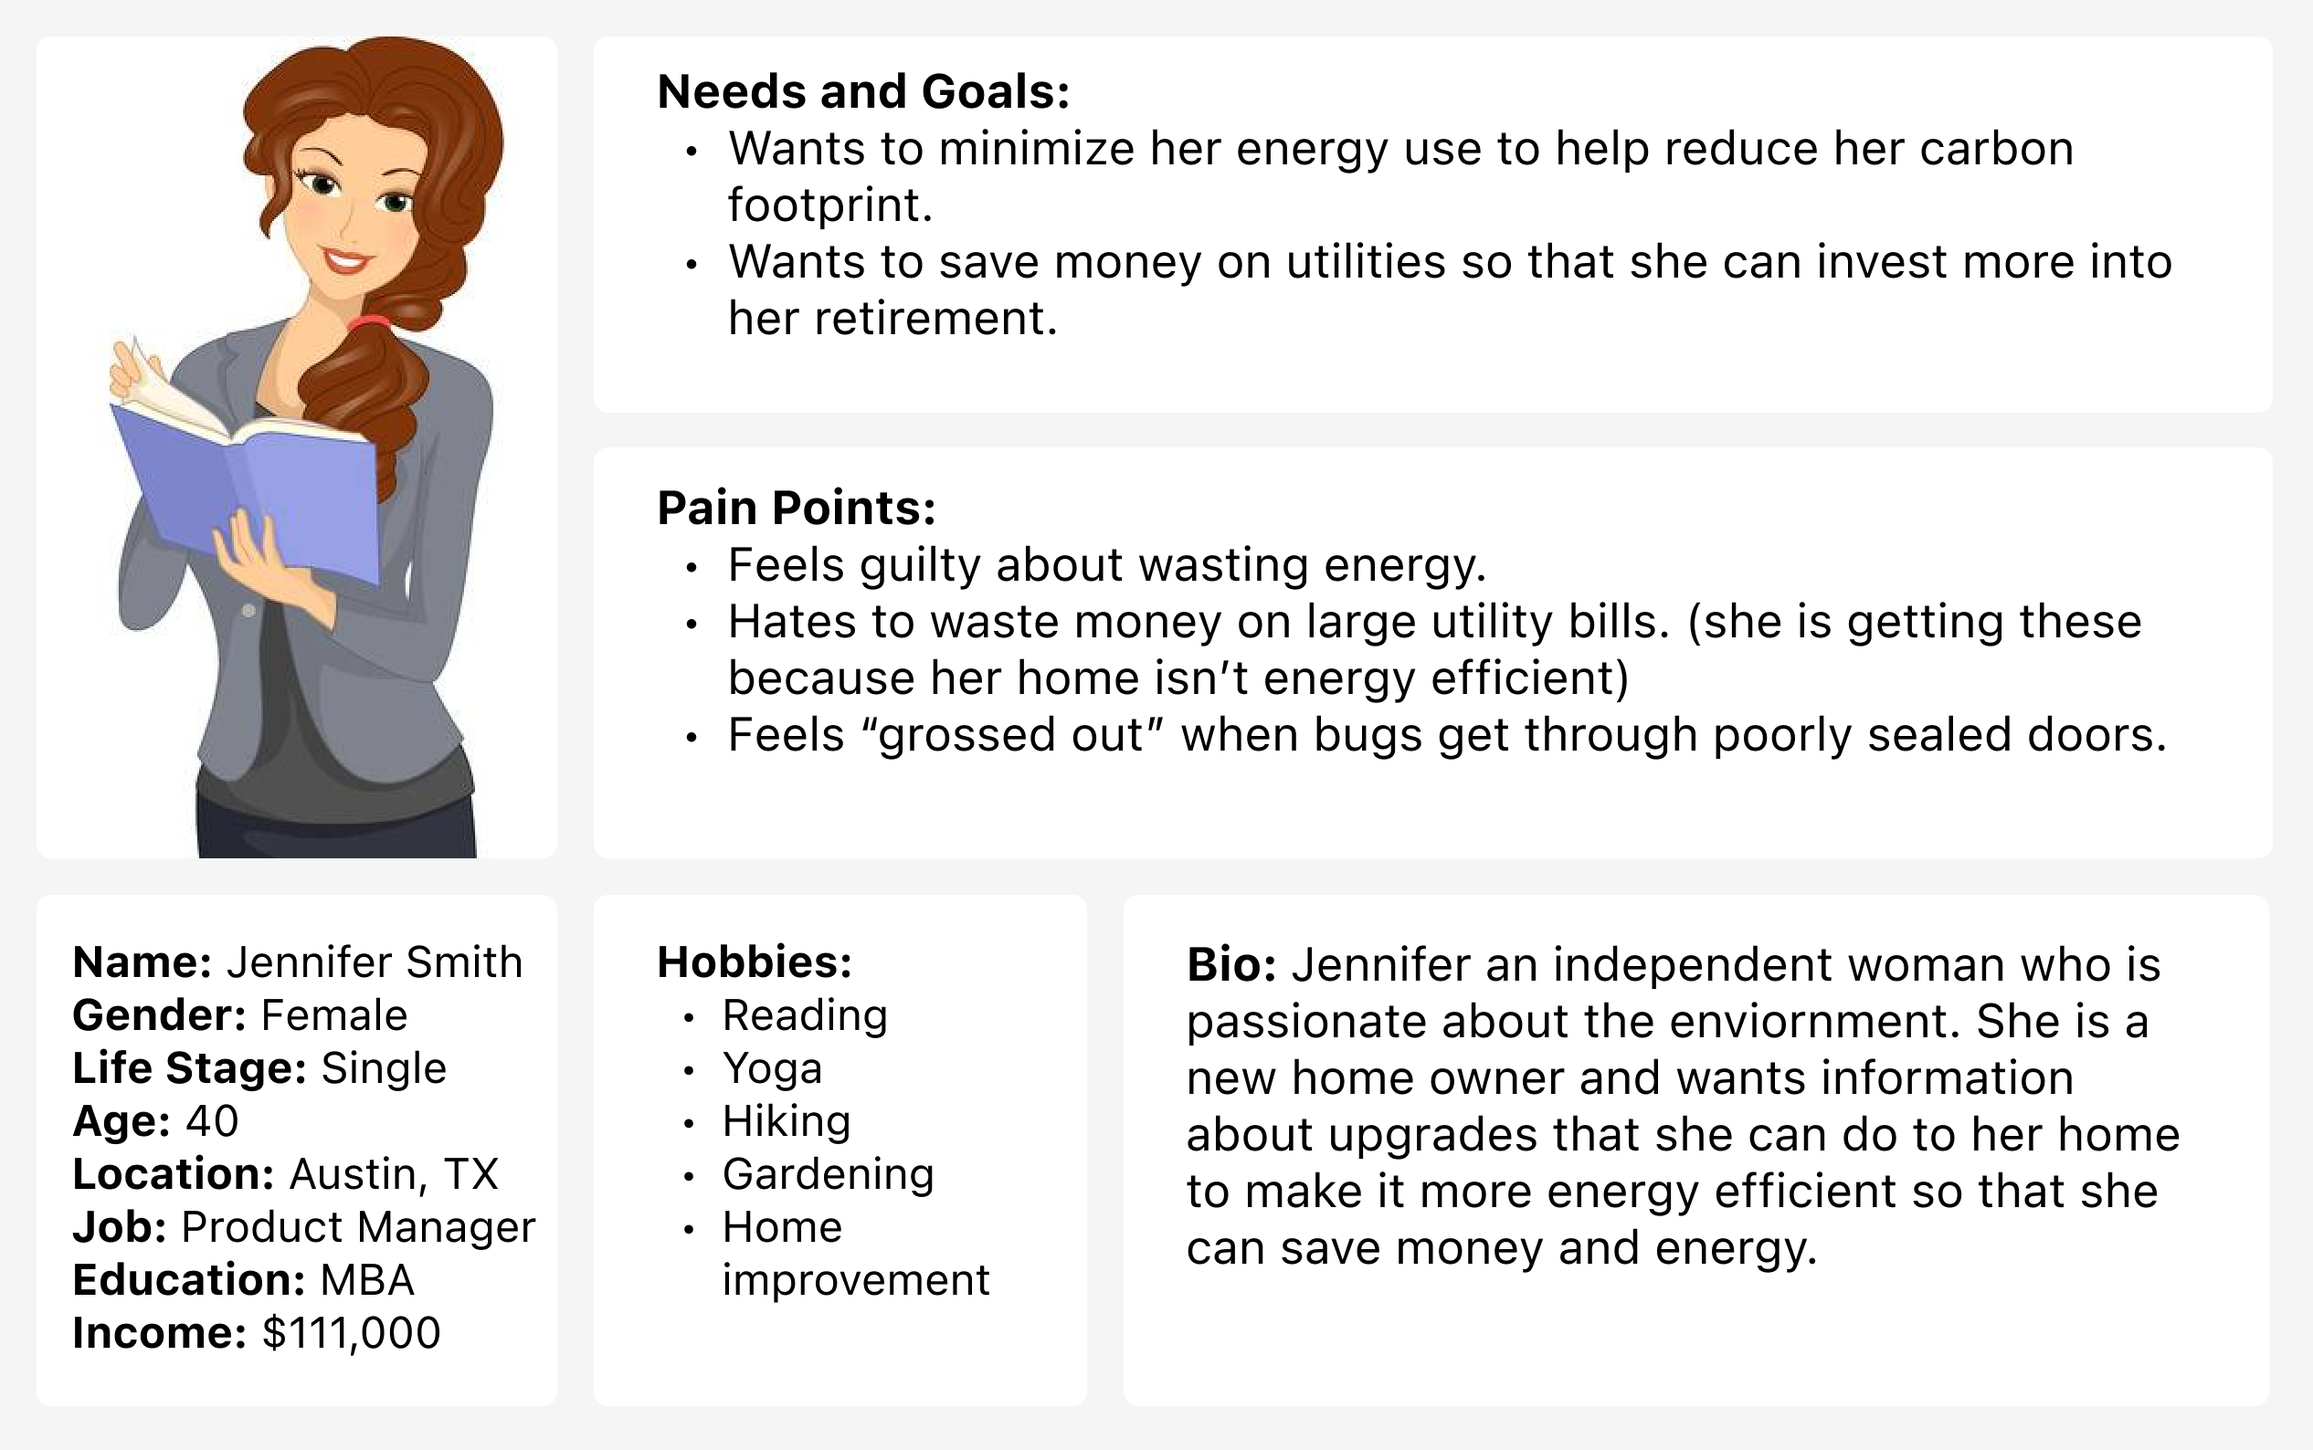
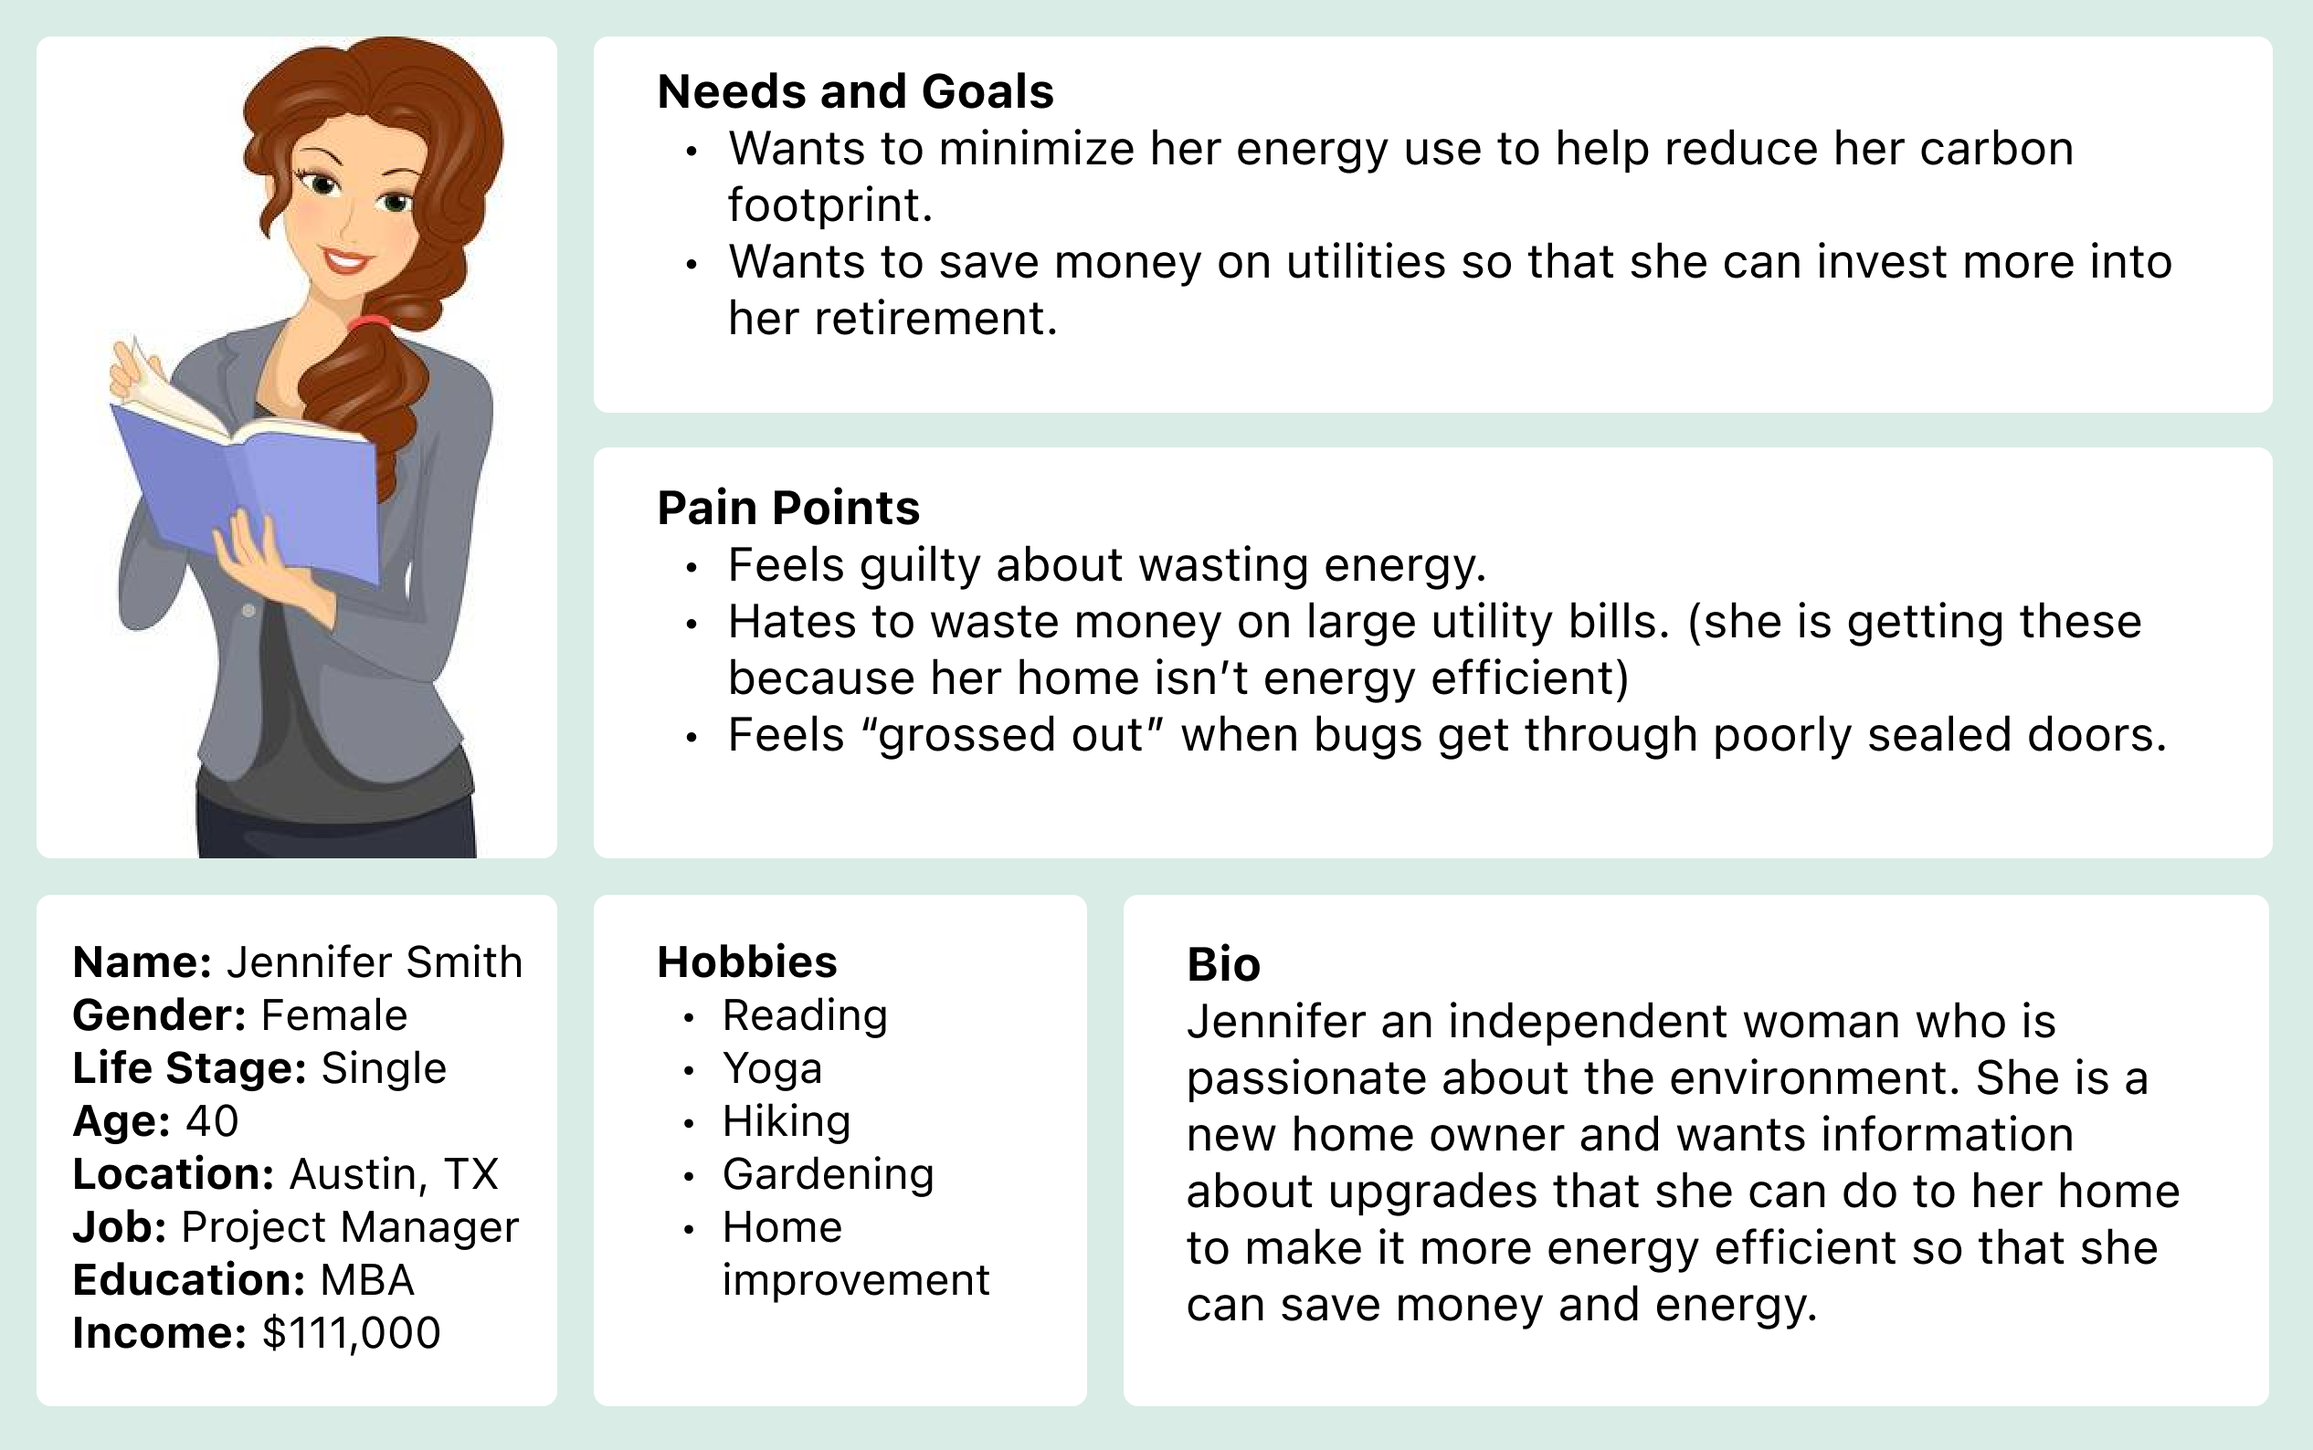
updated energy.gov persona

Changed region(s): [[0.0, 0.0, 1.0, 1.0]]

diff --git a/bonsaioutlet.html b/bonsaioutlet.html
@@ -1,0 +1,192 @@
+<!DOCTYPE html>
+<html>
+   <head>
+     <title>Jason Andrews - Product Designer</title>
+     <link rel="icon" href="images/ja-logo.png" type="image/x-icon" />
+     <link rel="shortcut icon" href="images/ja-logo.png" type="image/x-icon" /> 
+     <meta name="viewport" content="width=device-width, initial-scale=1">
+     <link href="css/index.css" rel="stylesheet" type="text/css">
+     <script src="https://ajax.googleapis.com/ajax/libs/jquery/3.5.1/jquery.min.js"></script>
+     <link rel="preconnect" href="https://fonts.googleapis.com">
+     <link rel="preconnect" href="https://fonts.gstatic.com" crossorigin>
+     <link href="https://fonts.googleapis.com/css2?family=Oooh+Baby&family=Poppins:ital@0;1&display=swap" rel="stylesheet">
+    </head>  
+   <body>
+       <!-- header -->
+    <header>
+      <a href="index.html"><img src="images/ja-logo.png" class="logo"></a>
+         <nav>
+             <ul class="mainNav">
+                <li class="navCollapse"><a href="index.html">Home</a></li>
+                <li class="navCollapse"><a href="aboutme.html">About</a></li>
+                <li class="navCollapse"><a href="documents/Resume_Jason_Andrews.pdf">Resume</a></li>
+                <li id="mobileNav" class="mobileNav">Menu</li>
+                <li class="contactButton"><a href="mailto:jasonwesleyandrews@gmail.com">Contact</a></li>
+             </ul>
+           </nav>
+    </header>
+   
+    <ul class="subNav">
+      <li class="subNavItem"><a href="index.html">Home</a></li>
+      <hr>
+      <li class="subNavItem"><a href="aboutme.html">About</a></li>
+      <hr>
+      <li class="subNavItem"><a href="documents/Resume_Jason_Andrews.pdf">Resume</a></li>      
+    </ul>
+<div id="grayBG" class="grayBG"></div>
+     <!-- case study -->
+<section>
+    <div class="caseStudyBody">
+    
+    <div class="heading">
+      <div class="caseStudyLogos">
+        <img src="bonsaiOutletImages/bonsai_outlet_logo.png" class="caseStudySmallImgNoBorder">
+     </div>
+      <h3>E-commerce UI Redesign</h3>
+      <p>UI Designer</p>
+  </div>
+
+    <div class="imgLimit">
+      <img src="images/Bonsai_outlet_mock1.png" class="caseStudySmallImgNoBorder">
+   </div>
+    <h3>The Problem</h3>
+    <p>Adventurous people with big travel dreams need a way to prioritize and share the items on their bucket list in order to organize goals, connect with like-minded peers, and gain inspiration for future trips.</p>
+    <h3>The Solution</h3>
+    <p>A new mobile application that allows the user to create, search, and share bucket list goals. Then notify their online community when these goals are completed.</p>
+    <h3>The User</h3>
+    <p>Young Millennials with big travel dreams, who wants to share and receive travel inspiration.</p>
+    <h3>The Goal</h3>
+    <p>To create a tool that would help travelers book their next vacation. I conducted research, discovered an opportunity, then built a prototype for usability testing over the course of 4 weeks. This project started with a broad goal and required inductive reasoning to find a problem and solution.</p>
+    <h3>The Process</h3>
+     
+     <h3 id="empathizeBB">Empathize / User Research</h3>
+     <p>I did some initial research and found that the demographic who travels the most were Millenials between the ages of 23 and 38, so I decided to focus on this group. I created a proto-persona based on my assumptions of the potential user. Next I developed a research and interview plan to discover customer needs - This involved 5 customer interviews and a survey on social media. I wanted to see what motivated people to travel, how often they did it, and what their process was like for planning.</p>
+     <div>
+        <img src="bonsaiOutletImages/bonsaioutlet_original1.png" class="caseStudySmallImg">
+     </div>
+     <p> I added all of the user insights collected through interviews to “sticky notes” in Miro. I sorted them based on the naturally occurring themes, creating this affinity diagram.</p>
+     
+     
+     <div>
+        <div class="caseStudyDoubleImgContainer">
+           <div class="caseStudyDoubleImg"> 
+             <img src="images/bucketBookImages/affinityDiagram1.png" class="caseStudySmallImg">
+           </div>
+           <div class="caseStudyDoubleImg"> 
+             <img src="images/bucketBookImages/travel_chart.png" class="caseStudySmallImg">
+           </div>
+        </div>
+      </div>
+      <h3 id="defineBB">Define</h3>
+    <p>While doing my research I learned that this demographic likes to be active and have new experiences that they can share on social media. Several participants mentioned wanting to cross items off of their bucket list. I noticed that most of these people got their travel inspiration from social media, like Instagram and the survey showed that 73% of their travel was for pleasure. With these findings I created a user persona and empathy map.</p>
+  
+    <div>
+        <img src="images/bucketBookImages/User Persona Samantha Muto2.png" class="caseStudySmallImgNoBorder">
+     </div>
+     <div class="blockQuoteContainer">
+       <blockquote class="blockquote">
+        <em>“I use social media to inspire my travel plans”</em> - Vanna
+       </blockquote>
+     </div>
+        <h3 id="ideationBB">Ideation</h3>
+        <p>After learning about the potential user needs, I jotted down some ideas of how an application could help solve them. I used the "I like, I wish, what if" method to brainstorm features, then the "how, now, wow" method to prioritize the features.</p>
+            <div class="caseStudyThreeImgContainer">
+               <div class="ThreeImgContainer">
+                 <img src="images/bucketBookImages/Bucket_List_feature_brainstorm.png" class="caseStudySmallImg">
+               </div>
+
+               <div class="caseStudyStackedImgContainer">
+                 <img src="images/bucketBookImages/feature_brainstorming.png" class="caseStudySmallImg">
+                 <img src="images/bucketBookImages/feature_prioritization.png" class="caseStudySmallImg">
+               </div>
+           
+            </div>
+      <p>My value proposition was a mobile application that allows the user to create a profile where they can add items to their bucket list. Users can share goals and accomplishments with their peers. Next I created a story board and user journey map to illustrate how this might work.</p>   
+      <div>
+        <img src="images/bucketBookImages/BB_storyboard4.png" class="caseStudySmallImgNoBorder">
+      </div>
+
+     <div class="blockQuoteContainer">
+      <blockquote class="blockquote">
+        <em>“I have a bucket list of spots in mind that I’d like to travel to.”</em> - Chris
+      </blockquote>
+     </div>
+
+        <h3 id="prototypingBB">Prototyping</h3>
+        <p>While creating a competitor analysis I found another app called Bucket that is similar, but it didn't allow users to create lists in different categories, so I moved forward with the assumption that this product can add value and differentiate itself by allowing users to create multiple lists with different catagories for similar goals. Here is a user flow showing how the application will work.</p>
+      
+        <img src="images/bucketBookImages/BB_User_flow1.jpg" class="caseStudySmallImgNoBorder">
+        <p>Once I had the user flow, I sketched wireframes and transfered them to Figma, where I created a clickable prototype.</p>
+          <div class="caseStudyDoubleImgContainer">
+            
+            <div class="caseStudyDoubleImg">
+              <img src="images/bucketBookImages/BB_wireframe_drawings.jpg" class="caseStudySmallImg">
+            </div>
+              
+            <div class="caseStudyDoubleImg">
+              <img src="images/bucketBookImages/BB_wireframe1.png" class="caseStudySmallImg">
+            </div>
+
+          </div>
+
+            <h3 id="testingBB">Usability Testing</h3>
+            <p>I created a usability testing plan and conducted 5 tests over Zoom. I made an affinity diagram from the user insights and then moved the opportunities to a 2x2 matrix that compared the priority for customers and the business to help me decide what I should change in the next iteration.</p>
+            
+                <div class="caseStudyDoubleImgContainer">
+                  
+                  <div class="caseStudyDoubleImg">
+                    <img src="images/bucketBookImages/BB_prototype.gif" class="caseStudySmallImg">
+                  </div>
+
+                  <div class="caseStudyDoubleImg">
+                    <img src="images/bucketBookImages/2x2_matrix.png" class="caseStudySmallImg">
+                  </div>
+
+                </div>
+               
+                <p>The results from my usability tests were clear to me. The onboarding process lacked clarity, causing confusion to users. I also needed to alter the state of some buttons when they are not useable. I followed Apple’s Human Interface Guidelines to create the next iteration of the prototype. Then I did another round of usability testing - this led me to switch the Sign Up and Sign In buttons, change the order of items on user posts, widen user input fields and more.</p>
+                <div class="caseStudyDoubleImgContainer">
+                  
+                  <div class="caseStudyDoubleImg">
+                    <img src="images/bucketBookImages/BB_mid-fi_prototype.png" class="caseStudySmallImgNoBorder">
+                  </div>
+
+                  <div class="caseStudyDoubleImg">
+                    <img src="images/bucketBookImages/bucketBook_styleGuide.png" class="caseStudySmallImg">
+                  </div>
+
+                </div>
+
+                <p>Finally, I created a style guide and applied the styles to create hi-fi mockups:</p>
+               <div>
+                <img src="images/bucketBookImages/bucketBook_mock2.png" class="caseStudySmallImgNoBorder">
+             </div>
+              
+                    <h3>Conclusion</h3>
+                    <p>I started this project without any direction because I wanted to let the interviews guide the problem and solution. In the beginning, I was a bit overwhelmed with how broad the scope was and it was a challenge to draw conclusions from the data while working alone. I feel like I had a breakthrough by having a brainstorming session with a TA from my UX/UI class at Georgia Tech. She was able to help me recognize some patterns in the data that I was not able to see while working alone. This is where the idea for a bucket list app came from. <br><br>
+                       
+
+                        Through this process, I learned how valuable collaboration is. Design thinking is difficult to do alone, getting feedback from other people who have a different viewpoint than you is a necessity. While so many of the people that I interviewed had the same pain points and goals, it was not always easy to decipher what that meant. In some ways, finding the problem is more difficult than creating a solution.<br><br>
+                        
+                        
+                        I found the usability testing to be extremely helpful, with only 5 tests I was able to see shortcomings in my design that I was able to fix in a day. I really only scratched the surface with what I learned and created here. My prototypes only covered sign up and sign in as well as onboarding, viewing the Home page and creating lists. There are many other features that need to be explored. I see a lot of potential in using this app to connect users who have the same items on their bucket list. <br><br>
+                       
+                        </p>
+                        <div class="caseStudyTestLinks">
+                          <a href="energygov.html"><p class="textLink">Previous</p></a>
+                          <a href="index.html"><p class="textLink">Home</p></a>
+                          <a href="moveabroad.html"><p class="textLink">Next</p></a>
+                        </div>   
+   </div>
+</section>
+<footer>
+    <p class="copyright">© 2022</p>
+    <ul>
+      <a href="https://www.linkedin.com/in/jason-wesley-andrews/" target="_blank"><li><img src="images/linkedin_logo_light.png" class="footerIcons"></li></a>
+      <a href="mailto:jasonwesleyandrews@gmail.com"><li><img src="images/mail_logo_light.png" class="footerIcons"></li></a>
+        
+    </ul>
+  </footer>
+</body>
+<script src="js/index.js"></script>
+</html>

diff --git a/energygov.html b/energygov.html
@@ -53,7 +53,7 @@
       <img src="energyGovImages/energyGov_hi-fi_mockups.png" class="caseStudySmallImgNoBorder">
    </div>
     <h3>The Problem</h3>
-    <p>Homeowners who want to save money and help the enviornment need a way to learn about money-saving programs and home improvement projects that will reduce their carbon footprint and energy expenses. The information and resources should be easy to find on Energy.gov, but they're not.</p>
+    <p>Homeowners who want to save money and help the environment need a way to learn about money-saving programs and home improvement projects that will reduce their carbon footprint and energy expenses. The information and resources should be easy to find on Energy.gov, but they're not.</p>
     <h3>The Solution</h3>
     <p>A redesign of the Energy Saver portion of the Energy.gov website to make it easy to use on all devices. I spent four weeks creating a web experience that is more understandable and accessible to the user.</p>
     <h3>The User</h3>

diff --git a/index.html b/index.html
@@ -87,6 +87,16 @@
          <img src="images/bucketBookImages/bucketBook_mock1.png" class="caseStudyPic">
        </div> 
       </a>
+<!-- 
+      <a class="caseStudy" href="bonsaioutlet.html">
+        <div>
+           <h5>BonsaiOutlet.com</h3>
+           <p>E-commerce UI Redesign</p>
+           <img src="images/Bonsai_outlet_mock1.png" class="caseStudyPic">
+        </div> 
+       </a>
+       
+      -->
 </section>
 <footer>
     <p class="copyright">© 2022</p>
